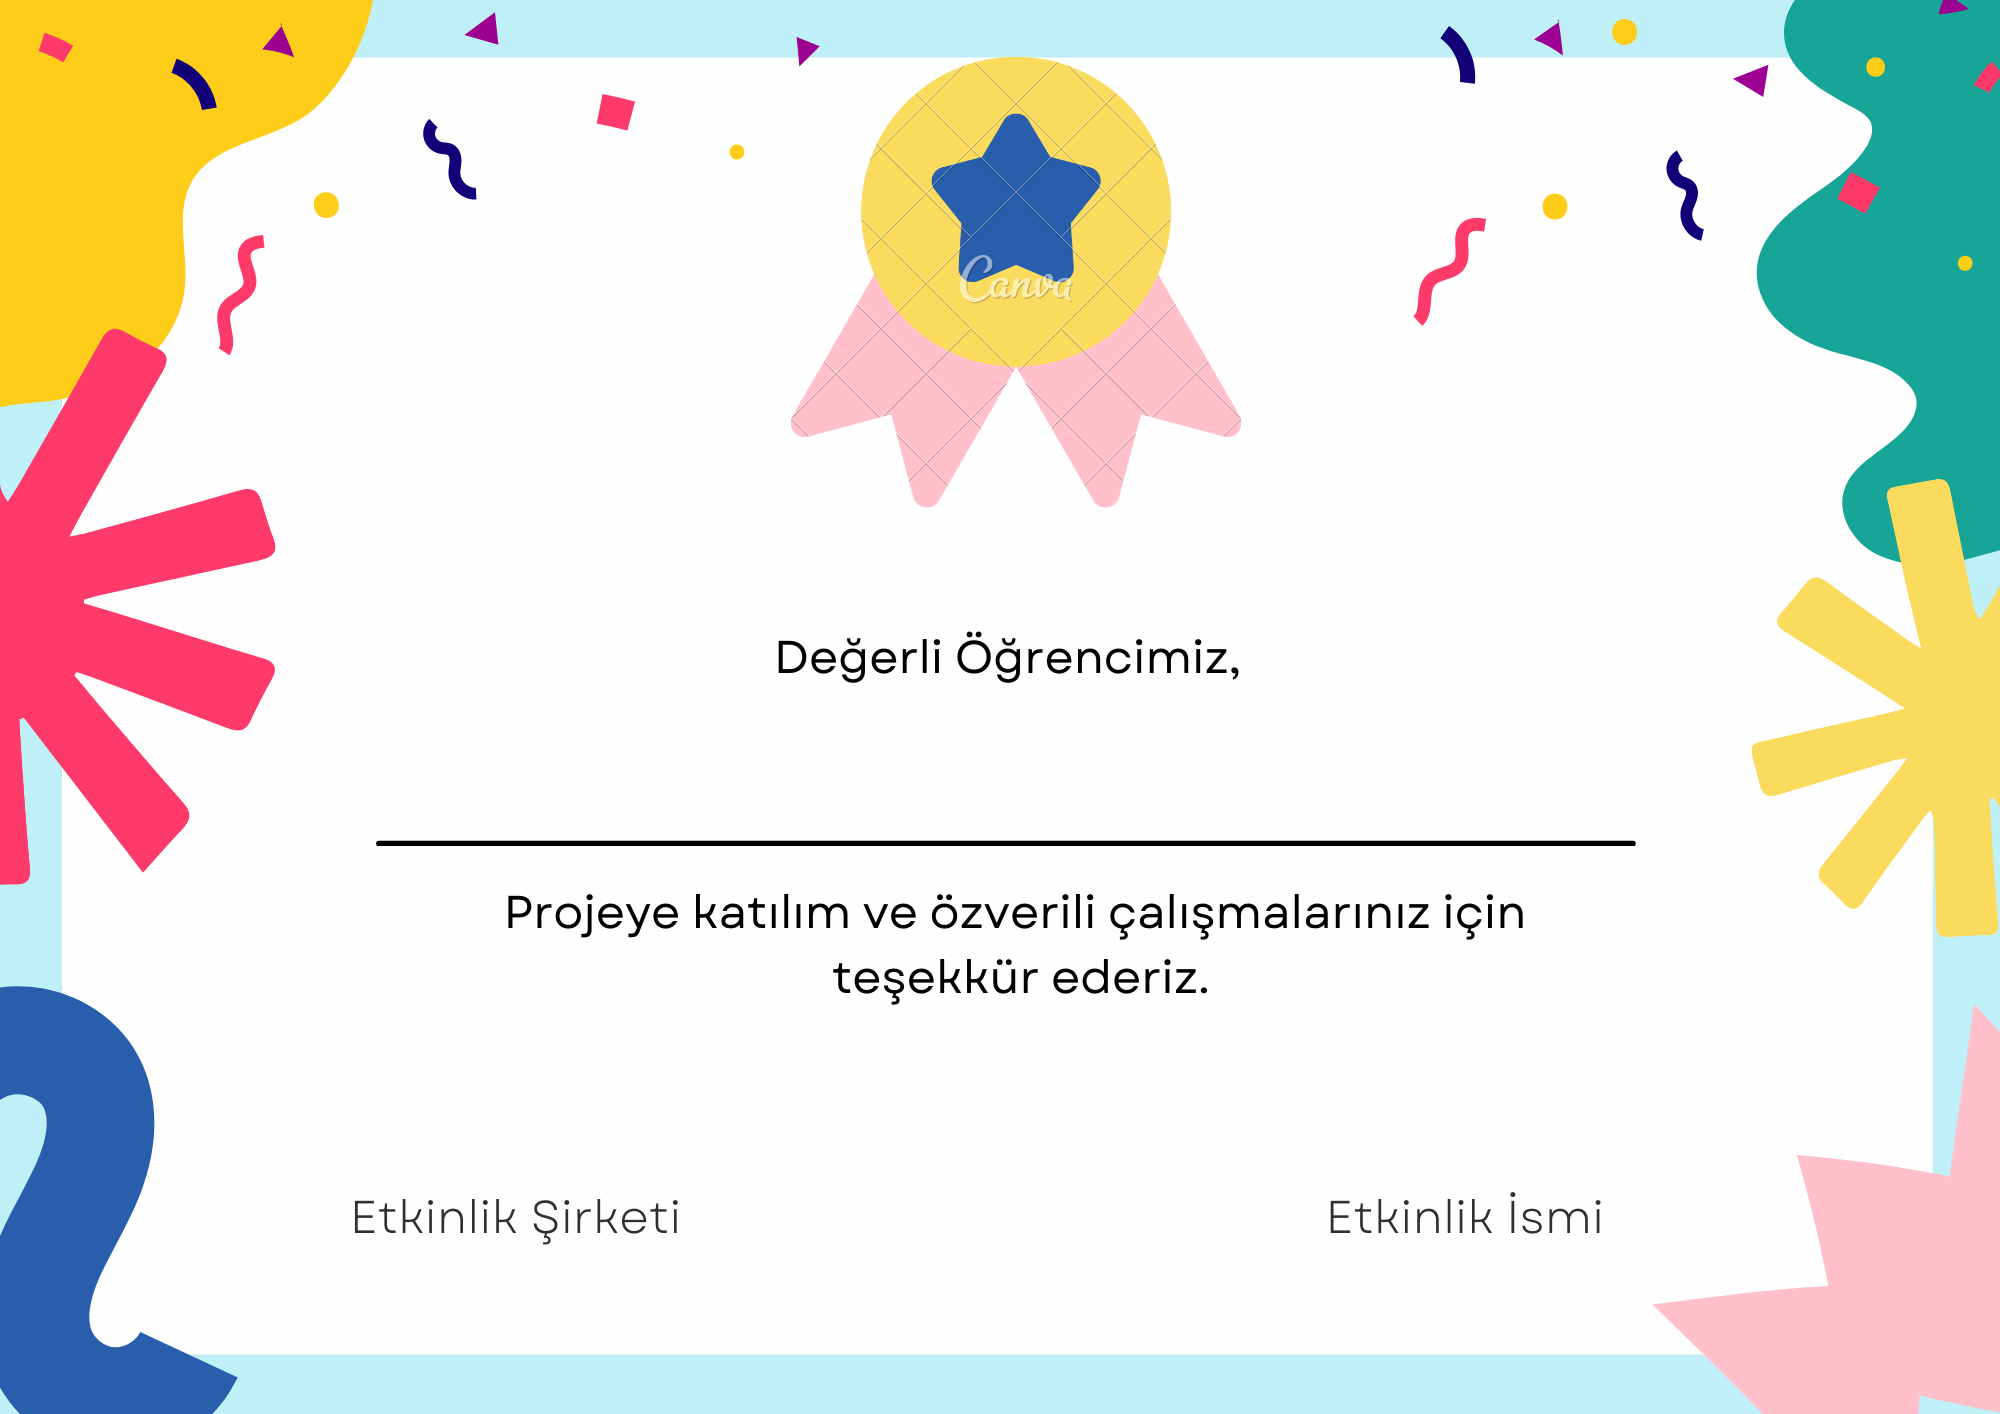
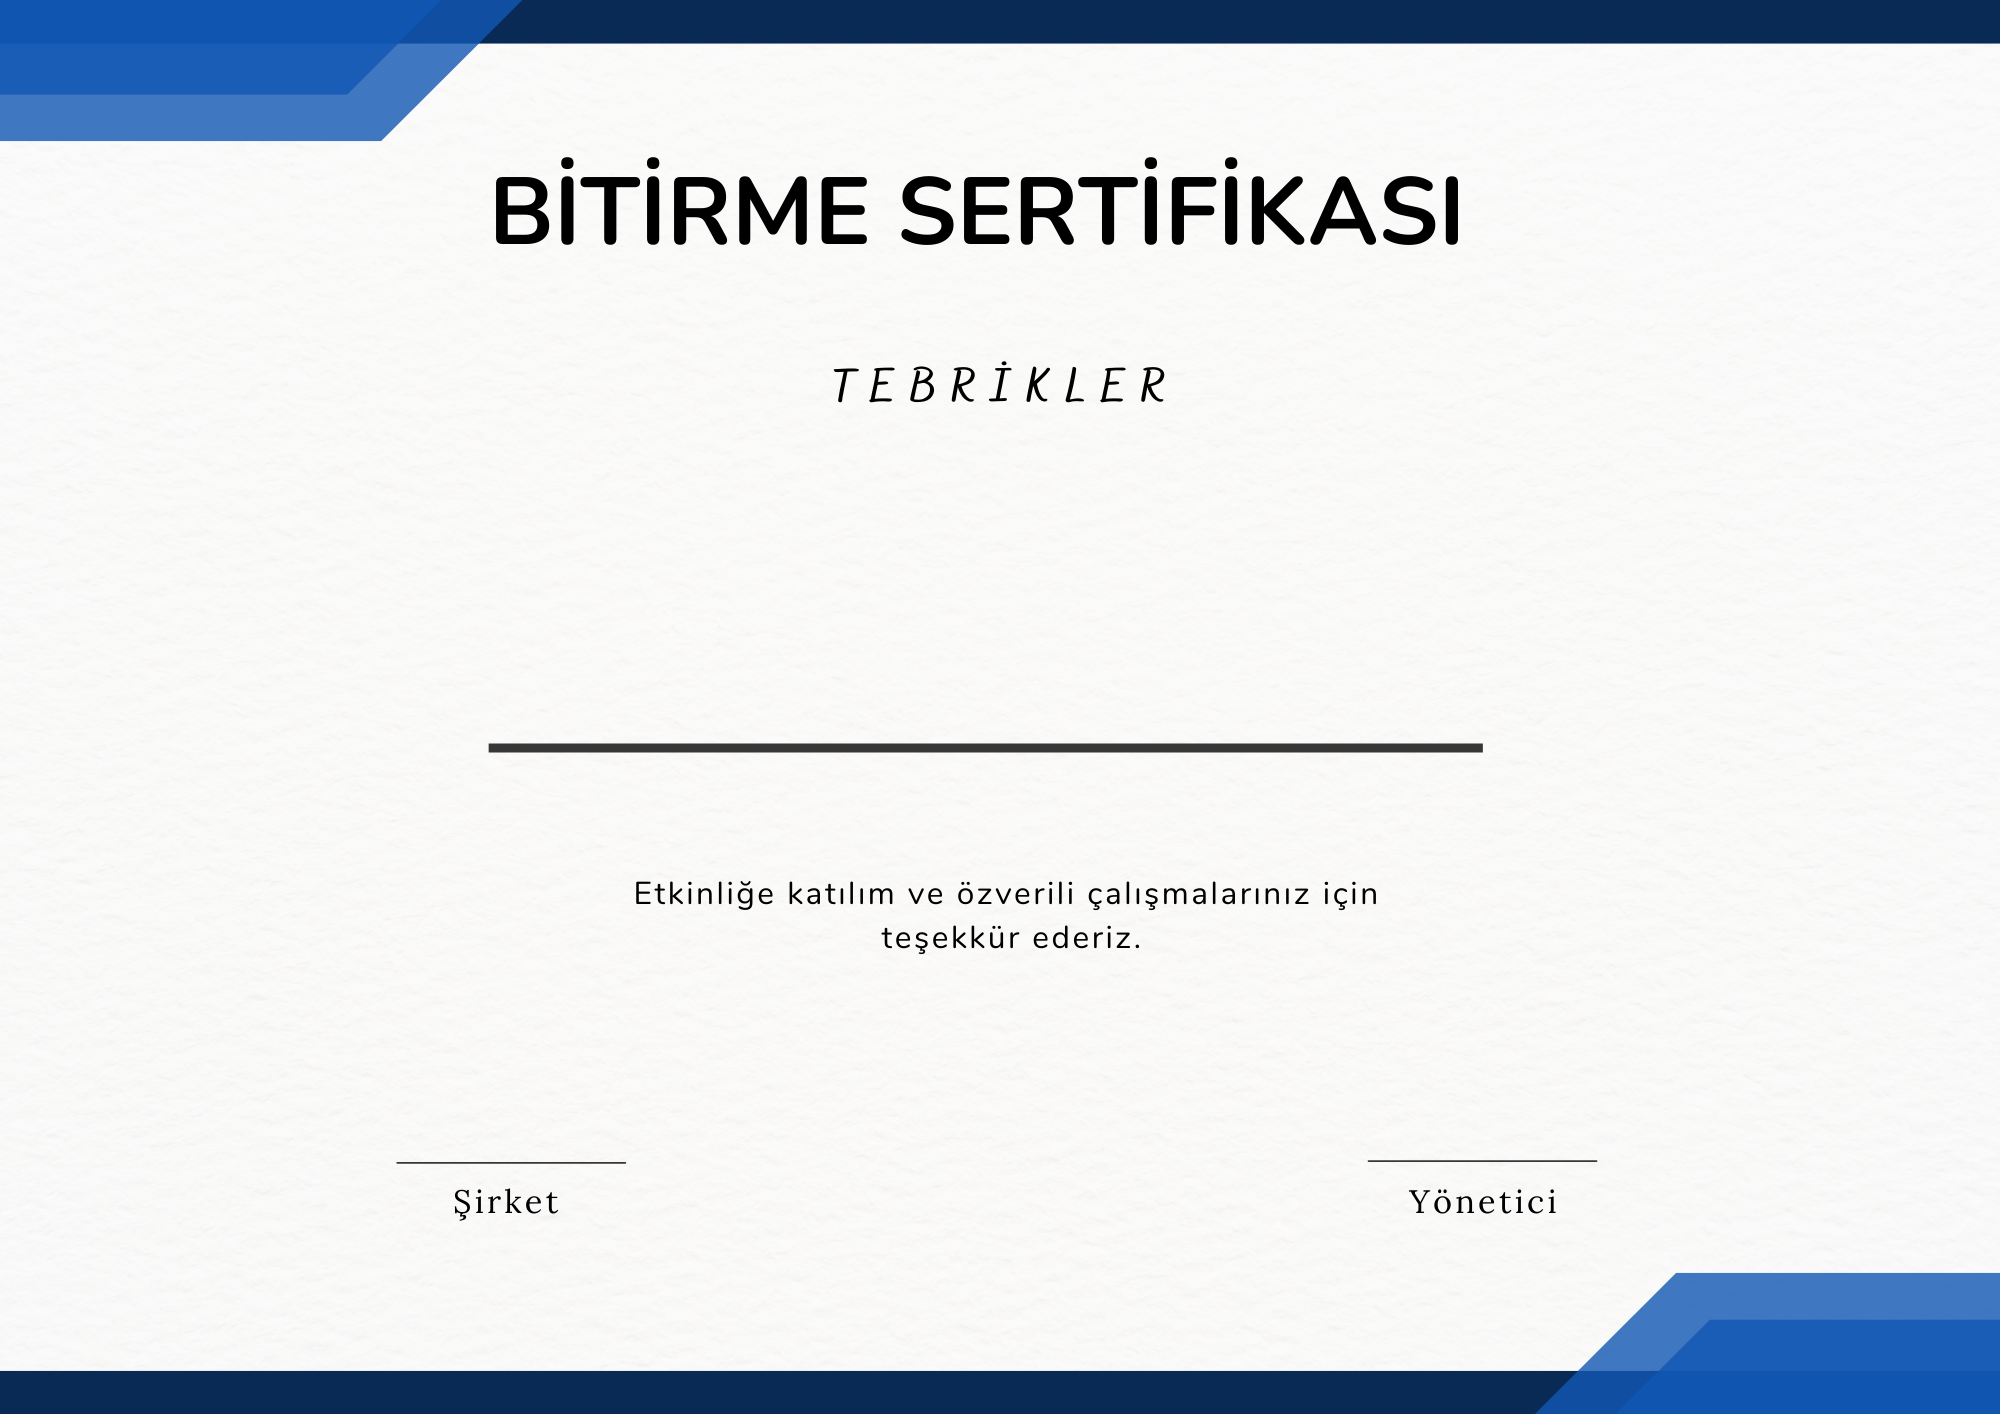
sertifika ile ilgili son guncellemeler

diff --git a/templates/sertifikagoruntule.html b/templates/sertifikagoruntule.html
@@ -68,7 +68,7 @@ p{
 
             <div style="border:solid;" class="wrapper">
                 <div class="box box1">
-                <img src="/static/images/sertifika.png" alt="resim" width="1100px" height="auto">
+                <img src="/static/images/sertifika2.png" alt="resim" width="1100px" height="auto">
                 <p class="adSoyad">{{adsoyad["name"]}} {{adsoyad["surname"]}}</p><br>
 
                 <p class="eventCompany">{{eventNames["event_company"]}}</p>
